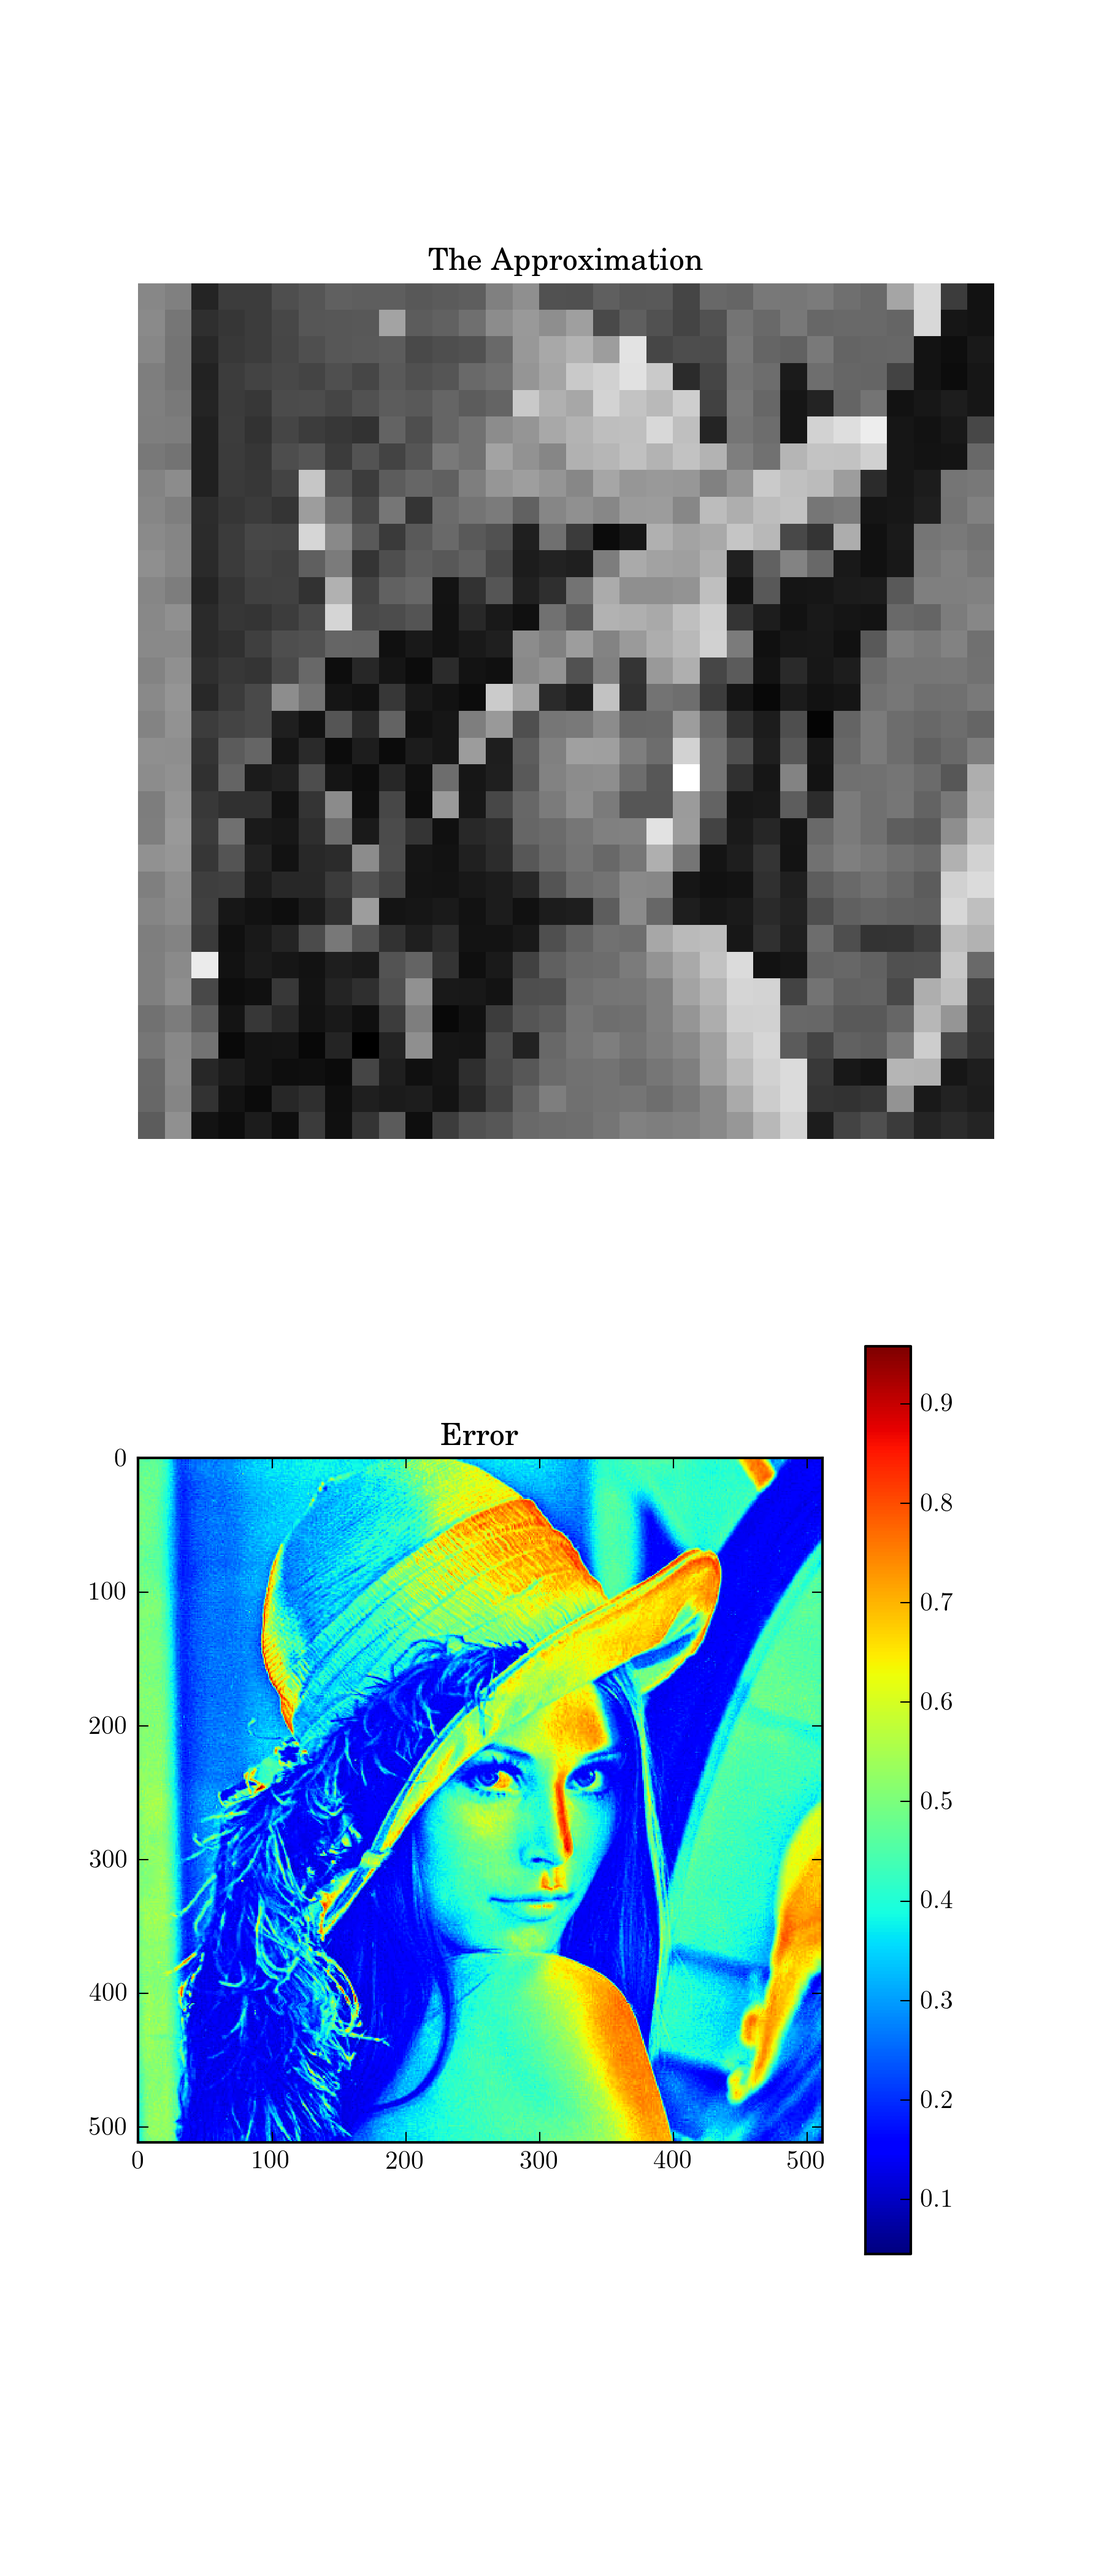
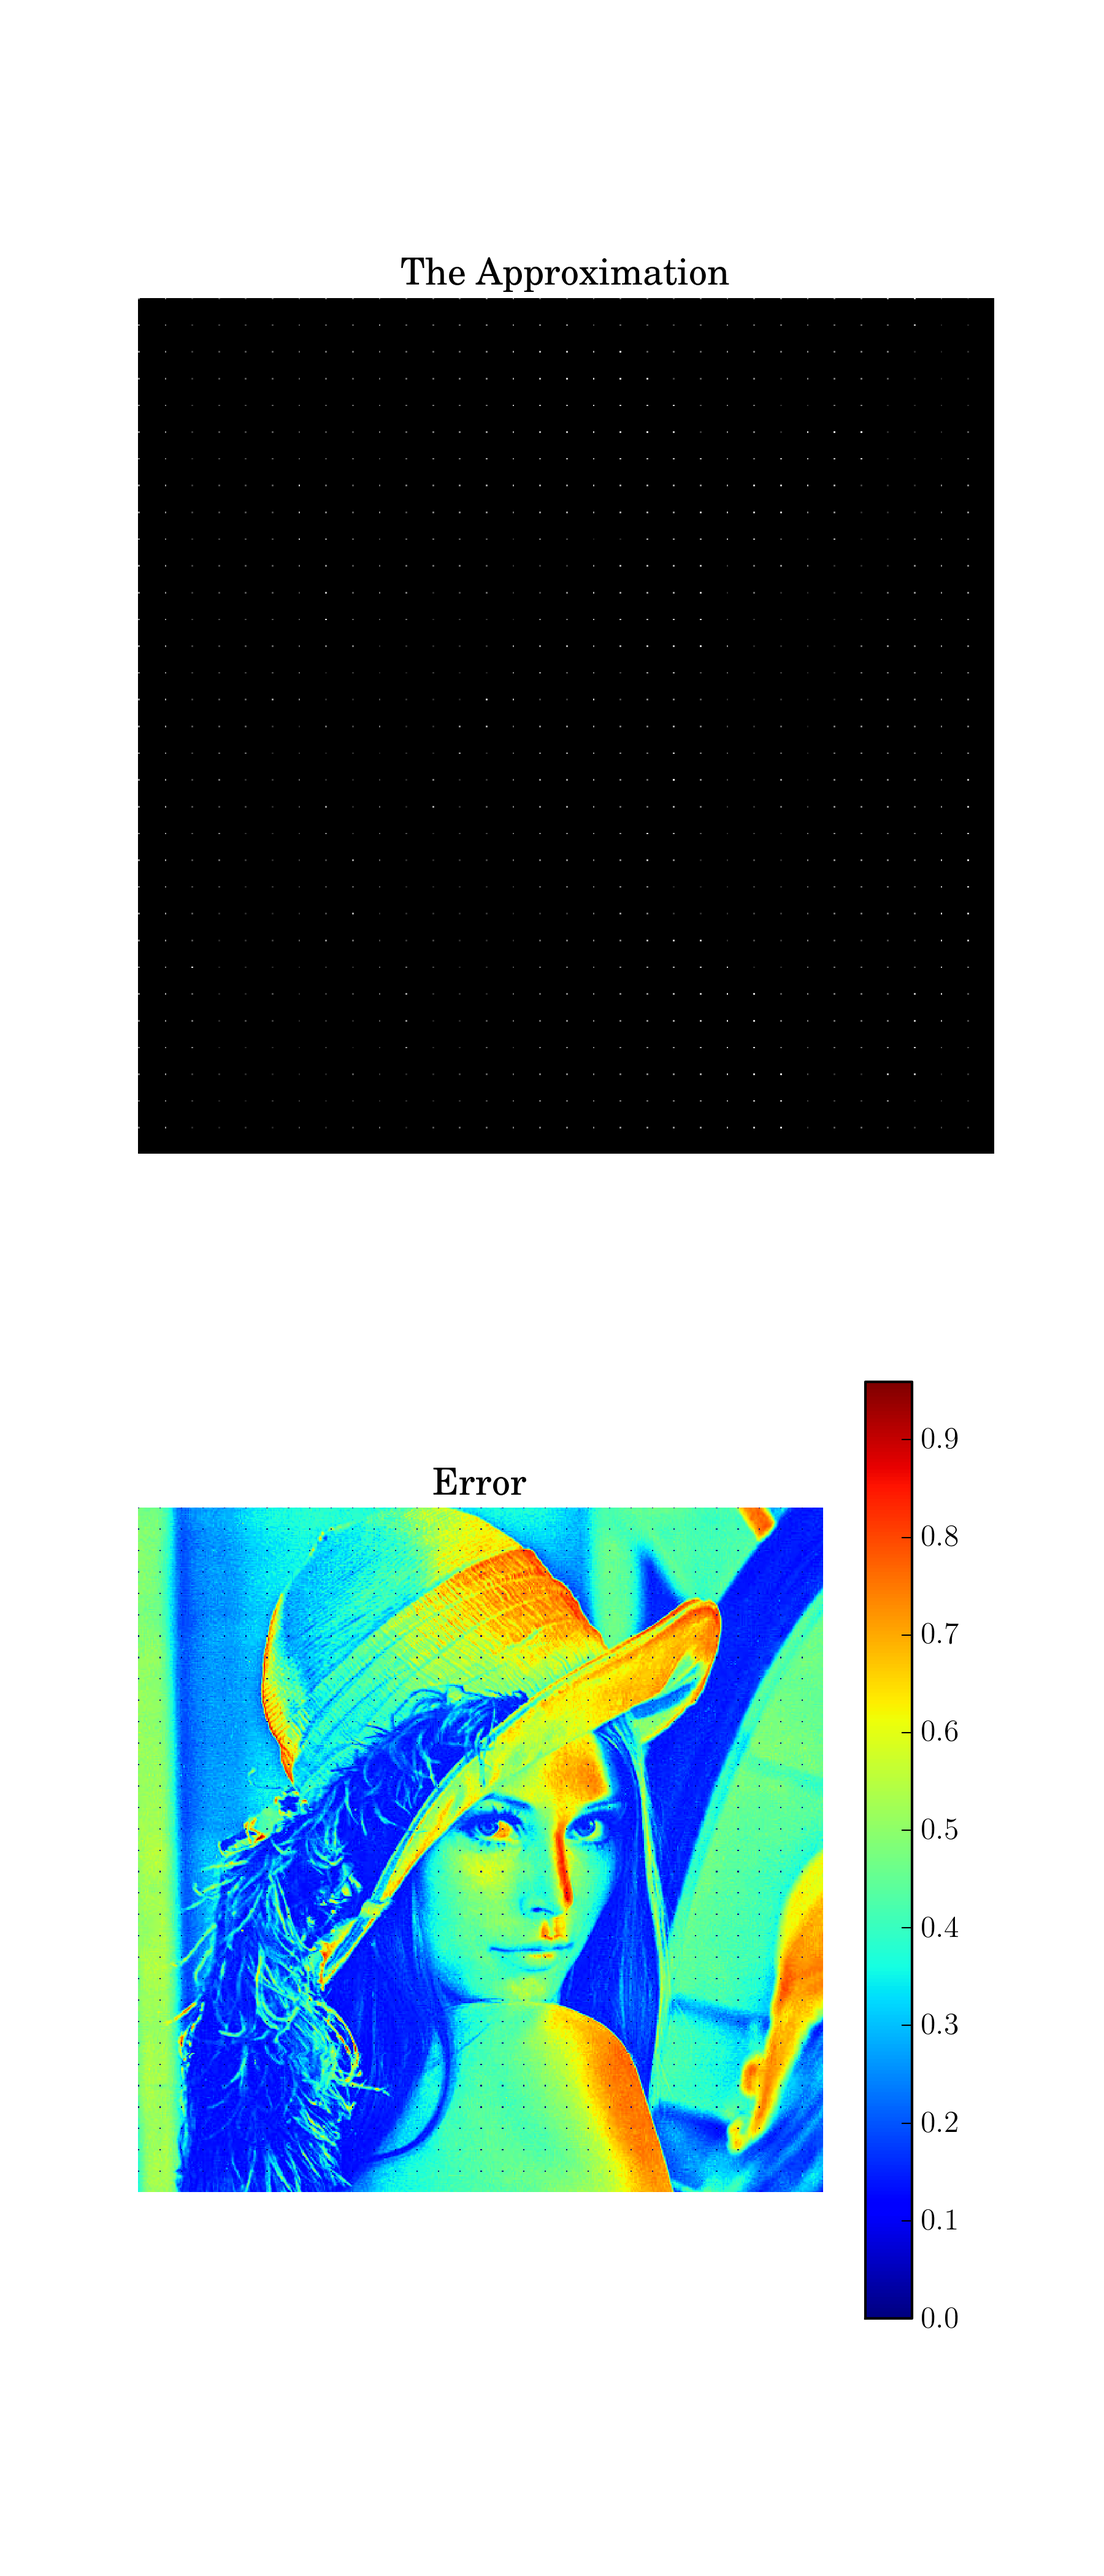
I figured out how to estimate the 2D case. Slow, but this isn't the production device.

diff --git a/tree/tree_test.py b/tree/tree_test.py
@@ -386,60 +386,45 @@ def returnIndForWaveletXY(argX, argY):
     yy = yy[yy != -1]
     return xx, yy[:, newaxis]
 
-def approxWavelet2D(x, sampleAt, level):
-    n = x.shape[0]
-    c = haarMatrix(n)
-    r = c.copy().T
 
-
-    r = asmatrix(r)
-    c = asmatrix(c)
-
-    wOrg = around(c * x * r, decimals=1)
-    under = sampleAt * x
-    x = asmatrix(x)
-
-    c = c[0:2**level, :]
-    r = r[:, 0:2**level]
-    approx = c * under * r
-    ret = zeros((n,n))
-    ret[0:2**level, 0:2**level] = approx
-    return ret
 
 x = imread('./lenna.png')
 x = mean(x, axis=2)
 n = x.shape[0]
 
-# every other element
 sampleAt = zeros((n,n))
 sampleAt[::2**4, ::2**4] = 1
-
-
+level = 7
+#def approxWavelet2D(x, sampleAt, level):
+n = x.shape[0]
 c = haarMatrix(n)
 r = c.copy().T
-c = asmatrix(c)
+
 r = asmatrix(r)
-real = c * x * r
-level = 5
-approx = approxWavelet2D(x, sampleAt, level)
+c = asmatrix(c)
+x = asmatrix(x)
 
+cO = c.copy()
+rO = r.copy()
+wOrg = c * x * r
 
+under = multiply(sampleAt, x)
 
-xt = c.I * real * r.I
-at = c.I * approx * r.I
-#ap = zeros((n,n))
-#ap[0:2**level, 0:2**level] = approx
+c = c[0:2**level, :]
+r = r[:, 0:2**level]
 
-figure(figsize=(6,14))
-subplot(211)
-imshow(c.I * approx * r.I, interpolation='nearest', cmap='gray')
-title('\\textrm{The Approximation}')
-axis('off')
+under = asmatrix(under)
 
-subplot(212)
-imshow(abs(xt-at), interpolation='nearest')
-colorbar()
-title('\\textrm{Error}')
-savefig('lena-approx.png', dpi=300)
+approx = c * under * r
+ret = zeros((n,n))
+ret[0:2**level, 0:2**level] = approx
+#return ret
+
+#i = argwhere(multiply(sampleAt, x) != 0)
+
+imshow(cO.I * wOrg * rO.I, interpolation='nearest')
 show()
 
+imshow(cO.I * ret * rO.I, interpolation='nearest')
+axis('off')
+show()

diff --git a/tree/drawnow.py b/tree/drawnow.py
@@ -1,0 +1,12 @@
+from pylab import *
+
+ion()
+
+x = arange(4)
+y = arange(4)
+x, y = meshgrid(x, y)
+
+for i in arange(5)+1:
+    z = x*i + y**i
+    imshow(z)
+    draw()
